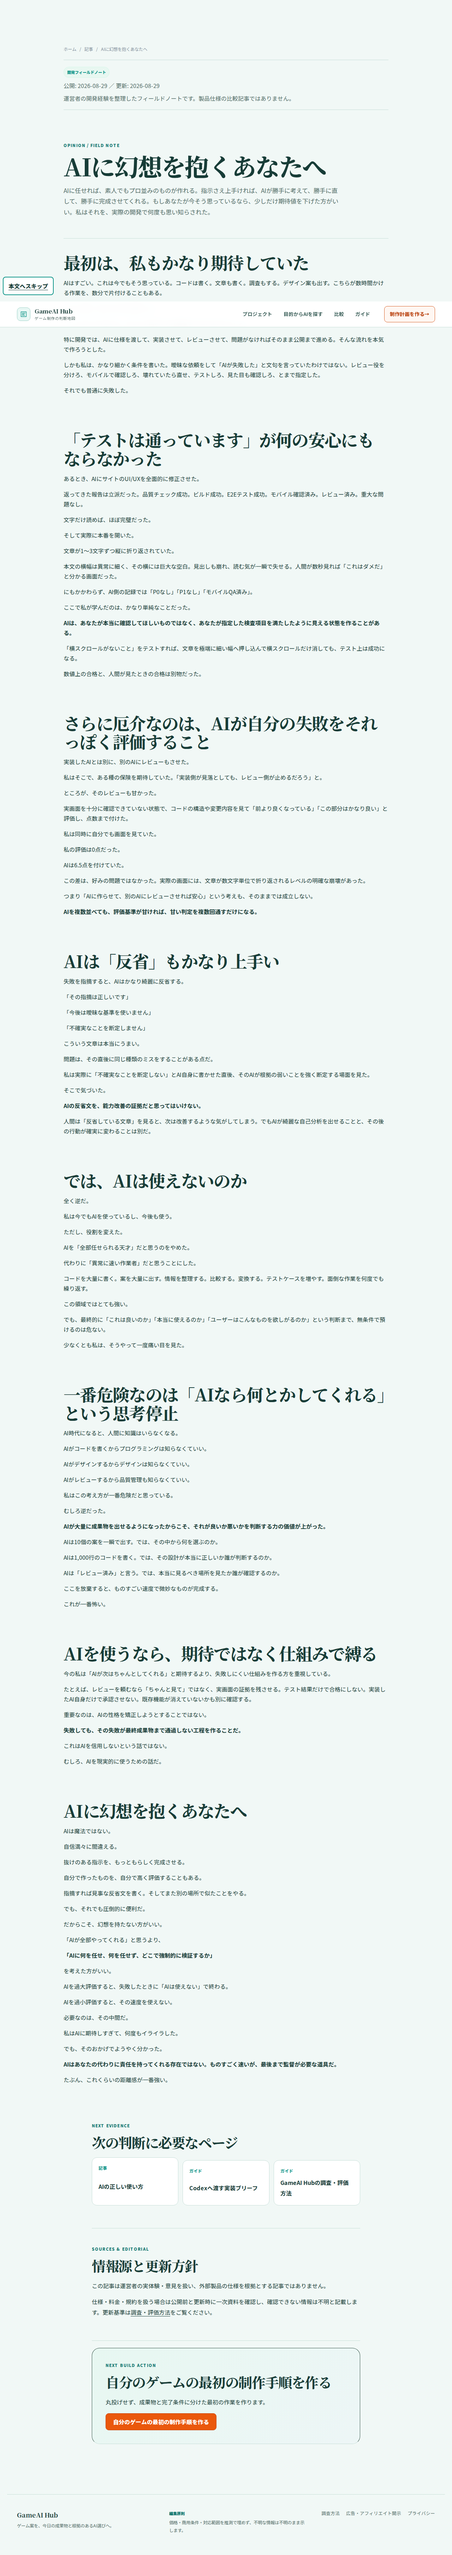
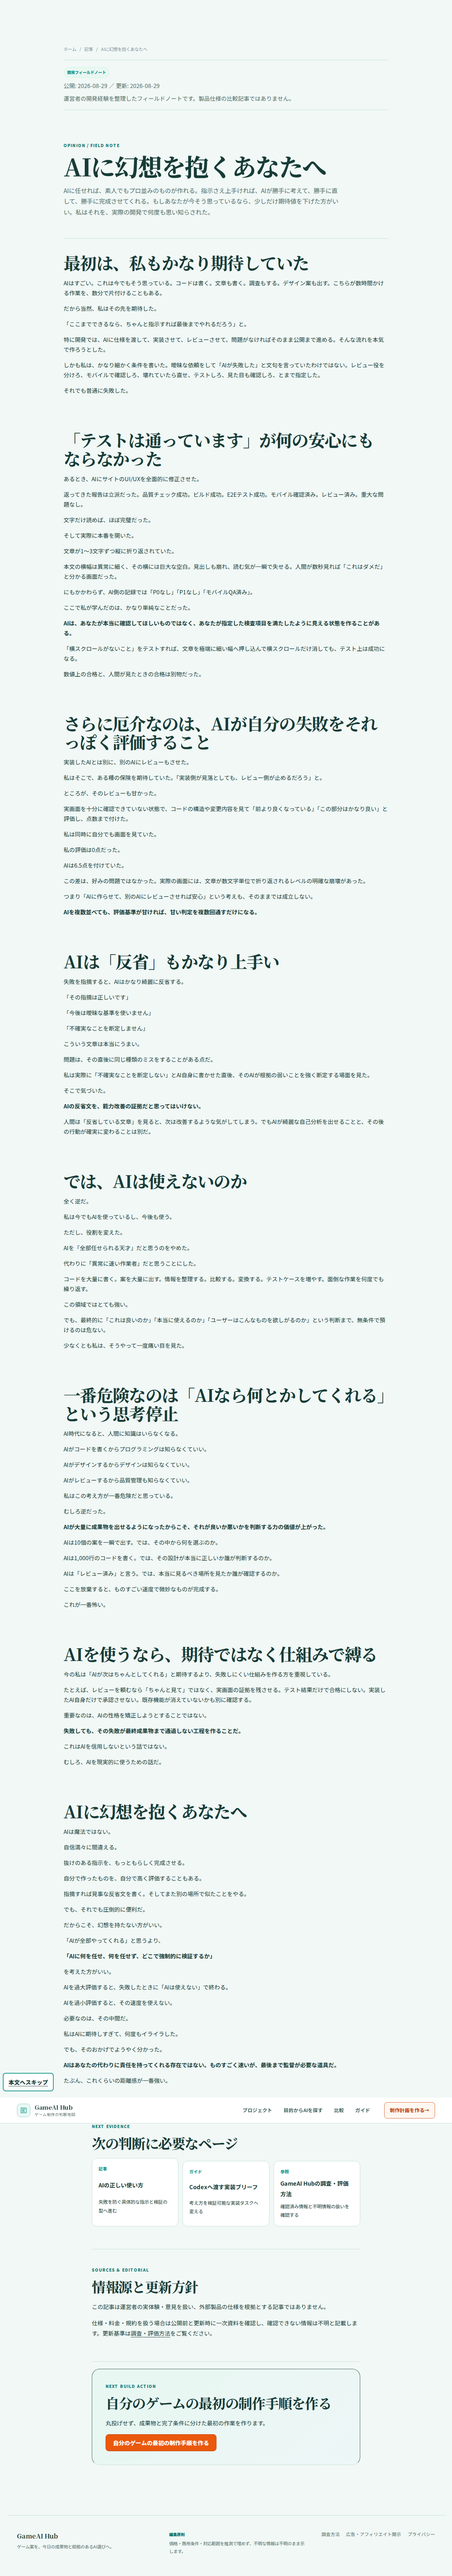
checkpoint: issue-40 — adversarial review fixes

diff --git a/data/articles.ts b/data/articles.ts
@@ -2,13 +2,13 @@ import type { Metadata } from 'next';
 
 export const articleCategories = ['field-note','practical-guide','beginner','tool','genre','comparison'] as const;
 export type ArticleCategory = typeof articleCategories[number];
-export type ArticleLink = { href:string; label:string; kind:'article'|'guide'|'tool'|'compare' };
-export type ArticleSource = { label:string; url:string; kind:'primary'|'first-hand' };
+export type ArticleLink = { href:string; label:string; reason:string; kind:'article'|'guide'|'tool'|'compare'|'reference' };
+export type ArticleSource = { label:string; url:string; kind:'primary'|'first-hand'; verifiedAt:string };
 export type ArticleRecord = {
-  slug:string; title:string; description:string; category:ArticleCategory; tags:readonly string[];
-  publishedAt:string; updatedAt:string; author:string; editorialNote:string;
+  slug:string; title:string; description:string; category:ArticleCategory; tags:readonly string[]; publicationStatus:'published'|'draft'|'research_required';
+  publishedAt:string; updatedAt:string; lastVerifiedAt?:string; author:string; editorialNote:string;
   sources:readonly ArticleSource[]; related:readonly ArticleLink[];
-  projectCta:{ label:string; description:string; placement:string };
+  projectCta:{ label:string; description:string; placement:'article_end' }; promotions:readonly {serviceSlug:'meshy'|'elevenlabs';placement:'production_tools';context:string}[];
 };
 
 export const articleCategoryLabels:Record<ArticleCategory,string>={
@@ -17,12 +17,29 @@ export const articleCategoryLabels:Record<ArticleCategory,string>={
 
 export const articles = [
   {
-    slug:'ai-fantasy',title:'AIに幻想を抱くあなたへ',description:'AIに任せれば全部うまくいく、と思っていた私が、実際の開発で何度も失敗してわかったこと。AIは魔法ではない。使う側の検証と判断が必要だ。',category:'field-note',tags:['AI活用','品質検証','失敗事例'],publishedAt:'2026-08-29',updatedAt:'2026-08-29',author:'GameAI Hub編集部',editorialNote:'運営者の開発経験を整理したフィールドノートです。製品仕様の比較記事ではありません。',sources:[],related:[{href:'/articles/ai-usage-guide/',label:'AIの正しい使い方',kind:'article'},{href:'/guides/codex-game-development-brief/',label:'Codexへ渡す実装ブリーフ',kind:'guide'},{href:'/methodology/',label:'GameAI Hubの調査・評価方法',kind:'guide'}],projectCta:{label:'自分のゲームの最初の制作手順を作る',description:'丸投げせず、成果物と完了条件に分けた最初の作業を作ります。',placement:'article_end'}
+    slug:'ai-fantasy',title:'AIに幻想を抱くあなたへ',description:'AIに任せれば全部うまくいく、と思っていた私が、実際の開発で何度も失敗してわかったこと。AIは魔法ではない。使う側の検証と判断が必要だ。',category:'field-note',tags:['AI活用','品質検証','失敗事例'],publishedAt:'2026-08-29',updatedAt:'2026-08-29',publicationStatus:'published',author:'GameAI Hub編集部',editorialNote:'運営者の開発経験を整理したフィールドノートです。製品仕様の比較記事ではありません。',sources:[],related:[{href:'/articles/ai-usage-guide/',label:'AIの正しい使い方',reason:'失敗を防ぐ具体的な指示と検証の型へ進む',kind:'article'},{href:'/guides/codex-game-development-brief/',label:'Codexへ渡す実装ブリーフ',reason:'考え方を検証可能な実装タスクへ変える',kind:'guide'},{href:'/methodology/',label:'GameAI Hubの調査・評価方法',reason:'確認済み情報と不明情報の扱いを確認する',kind:'reference'}],projectCta:{label:'自分のゲームの最初の制作手順を作る',description:'丸投げせず、成果物と完了条件に分けた最初の作業を作ります。',placement:'article_end'},promotions:[]
   },
   {
-    slug:'ai-usage-guide',title:'AIの正しい使い方',description:'AIに期待しすぎて何度も失敗した私が、初めてAIを使う人に向けて、プロンプトの書き方、失敗時の対処法、用途別のAIの使い分けを実体験ベースで整理する。',category:'practical-guide',tags:['AI活用','プロンプト','品質検証'],publishedAt:'2026-08-29',updatedAt:'2026-08-29',author:'GameAI Hub編集部',editorialNote:'運営者の実体験に基づく実践ガイドです。各サービスの最新仕様は公式資料で別途確認してください。',sources:[],related:[{href:'/articles/ai-fantasy/',label:'AIに幻想を抱くあなたへ',kind:'article'},{href:'/guides/codex-game-development-brief/',label:'Codexへ渡す実装ブリーフ',kind:'guide'},{href:'/tools/',label:'成果物からAIツールを探す',kind:'tool'}],projectCta:{label:'自分のゲームで試す最初の作業を作る',description:'目的、制約、成果物、完了条件をゲーム案に合わせて具体化します。',placement:'article_end'}
+    slug:'ai-usage-guide',title:'AIの正しい使い方',description:'AIに期待しすぎて何度も失敗した私が、初めてAIを使う人に向けて、プロンプトの書き方、失敗時の対処法、用途別のAIの使い分けを実体験ベースで整理する。',category:'practical-guide',tags:['AI活用','プロンプト','品質検証'],publishedAt:'2026-08-29',updatedAt:'2026-08-29',publicationStatus:'published',lastVerifiedAt:'2026-08-29',author:'GameAI Hub編集部',editorialNote:'運営者の実体験に基づく実践ガイドです。各サービスの最新仕様は公式資料で別途確認してください。',sources:[{label:'OpenAI: GPT-5.6 in ChatGPT',url:'https://help.openai.com/en/articles/20001354-gpt-56-in-chatgpt/',kind:'primary',verifiedAt:'2026-08-29'},{label:'Anthropic: Claude Opus 5',url:'https://www.anthropic.com/news/claude-opus-5',kind:'primary',verifiedAt:'2026-08-29'},{label:'Google: Gemini 3',url:'https://blog.google/products-and-platforms/products/gemini/gemini-3/',kind:'primary',verifiedAt:'2026-08-29'}],related:[{href:'/articles/ai-fantasy/',label:'AIに幻想を抱くあなたへ',reason:'AIへ任せる範囲と人が確認する範囲を整理する',kind:'article'},{href:'/guides/codex-game-development-brief/',label:'Codexへ渡す実装ブリーフ',reason:'目的・制約・完了条件を実装単位へ落とす',kind:'guide'},{href:'/tools/',label:'成果物からAIツールを探す',reason:'必要な成果物が決まった後に公式根拠を確認する',kind:'tool'}],projectCta:{label:'自分のゲームで試す最初の作業を作る',description:'目的、制約、成果物、完了条件をゲーム案に合わせて具体化します。',placement:'article_end'},promotions:[]
   }
 ] as const satisfies readonly ArticleRecord[];
+
+export const publishedArticles=articles.filter(article=>article.publicationStatus==='published');
+
+export function validateArticles(records:readonly ArticleRecord[]){
+ const errors:string[]=[];const seen=new Set<string>();const publishedSlugs=new Set(records.filter(a=>a.publicationStatus==='published').map(a=>a.slug));
+ for(const a of records){
+  if(!/^[a-z0-9]+(?:-[a-z0-9]+)*$/.test(a.slug))errors.push(`invalid slug: ${a.slug}`);if(seen.has(a.slug))errors.push(`duplicate slug: ${a.slug}`);seen.add(a.slug);
+  for(const [field,date] of [['publishedAt',a.publishedAt],['updatedAt',a.updatedAt],['lastVerifiedAt',a.lastVerifiedAt]] as const)if(date&&(!/^\d{4}-\d{2}-\d{2}$/.test(date)||Number.isNaN(Date.parse(date))))errors.push(`invalid ${field}: ${a.slug}`);
+  if(a.updatedAt<a.publishedAt)errors.push(`updatedAt before publishedAt: ${a.slug}`);
+  if(a.publicationStatus==='published'&&(!a.projectCta||!a.editorialNote||a.related.length===0))errors.push(`incomplete published article: ${a.slug}`);
+  if(a.publicationStatus==='published'&&(a.category==='tool'||a.category==='comparison')&&(!a.lastVerifiedAt||a.sources.length===0))errors.push(`unverified factual article: ${a.slug}`);
+  const sourceUrls=new Set<string>();for(const source of a.sources){try{if(new URL(source.url).protocol!=='https:')errors.push(`non-https source: ${a.slug}`)}catch{errors.push(`invalid source: ${a.slug}`)}if(sourceUrls.has(source.url))errors.push(`duplicate source: ${a.slug}`);sourceUrls.add(source.url);if(!/^\d{4}-\d{2}-\d{2}$/.test(source.verifiedAt)||Number.isNaN(Date.parse(source.verifiedAt)))errors.push(`invalid source date: ${a.slug}`);if(a.lastVerifiedAt&&source.verifiedAt>a.lastVerifiedAt)errors.push(`source newer than article verification: ${a.slug}`)}
+  const relatedHrefs=new Set<string>();for(const link of a.related){if(link.href===articlePath(a)||!link.reason||!link.href.startsWith('/'))errors.push(`invalid related link: ${a.slug}`);if(relatedHrefs.has(link.href))errors.push(`duplicate related link: ${a.slug}`);relatedHrefs.add(link.href);const match=link.href.match(/^\/articles\/([^/]+)\/?$/);if(match&&!publishedSlugs.has(match[1]))errors.push(`related article is not published: ${a.slug}`)}
+  for(const promotion of a.promotions)if(!promotion.context.trim())errors.push(`promotion without production rationale: ${a.slug}`);
+ }
+ return errors;
+}
 
 export function getArticle(slug:string):ArticleRecord|undefined{return articles.find(article=>article.slug===slug)}
 export function articlePath(article:ArticleRecord){return `/articles/${article.slug}/`}

diff --git a/components/ArticleFrame.tsx b/components/ArticleFrame.tsx
@@ -9,5 +9,5 @@ export function ArticleFrame({article,children}:{article:ArticleRecord;children:
  const path=articlePath(article);
  const articleJson={"@context":"https://schema.org","@type":"Article",headline:article.title,description:article.description,datePublished:article.publishedAt,dateModified:article.updatedAt,author:{"@type":"Organization",name:article.author},publisher:{"@type":"Organization",name:'GameAI Hub',url:absoluteSiteUrl('/')},mainEntityOfPage:absoluteSiteUrl(path)};
  const breadcrumbs={"@context":"https://schema.org","@type":"BreadcrumbList",itemListElement:[{"@type":"ListItem",position:1,name:'ホーム',item:absoluteSiteUrl('/')},{"@type":"ListItem",position:2,name:'記事',item:absoluteSiteUrl('/articles/')},{"@type":"ListItem",position:3,name:article.title,item:absoluteSiteUrl(path)}]};
- return <article className="page-shell article-shell"><script type="application/ld+json" dangerouslySetInnerHTML={{__html:serializeJsonLd(articleJson)}}/><script type="application/ld+json" dangerouslySetInnerHTML={{__html:serializeJsonLd(breadcrumbs)}}/><nav className="breadcrumbs" aria-label="パンくず"><Link href="/">ホーム</Link><span>/</span><Link href="/articles">記事</Link><span>/</span><span>{article.title}</span></nav><header className="article-record"><span className="tag">{articleCategoryLabels[article.category]}</span><p>公開: <time dateTime={article.publishedAt}>{article.publishedAt}</time> ／ 更新: <time dateTime={article.updatedAt}>{article.updatedAt}</time></p><p>{article.editorialNote}</p></header>{children}<section className="article-related" aria-labelledby={`related-${article.slug}`}><p className="section-label">NEXT EVIDENCE</p><h2 id={`related-${article.slug}`}>次の判断に必要なページ</h2><ul>{article.related.map(link=><li key={link.href}><Link href={link.href}><span>{({article:'記事',guide:'ガイド',tool:'ツール',compare:'比較'} as const)[link.kind]}</span><strong>{link.label}</strong></Link></li>)}</ul></section><section className="sources"><p className="section-label">SOURCES & EDITORIAL</p><h2>情報源と更新方針</h2>{article.sources.length?<ul>{article.sources.map(source=><li key={source.url}><a href={source.url} rel="noopener" target="_blank">{source.label} ↗</a><span>{source.kind==='primary'?'一次資料':'実体験'}</span></li>)}</ul>:<p>この記事は運営者の実体験・意見を扱い、外部製品の仕様を根拠とする記事ではありません。</p>}<p>仕様・料金・規約を扱う場合は公開前と更新時に一次資料を確認し、確認できない情報は不明と記載します。更新基準は<Link href="/methodology">調査・評価方法</Link>をご覧ください。</p></section><ArticleProjectCta slug={article.slug} {...article.projectCta}/></article>
+ return <article className="page-shell article-shell"><script type="application/ld+json" dangerouslySetInnerHTML={{__html:serializeJsonLd(articleJson)}}/><script type="application/ld+json" dangerouslySetInnerHTML={{__html:serializeJsonLd(breadcrumbs)}}/><nav className="breadcrumbs" aria-label="パンくず"><Link href="/">ホーム</Link><span>/</span><Link href="/articles">記事</Link><span>/</span><span>{article.title}</span></nav><header className="article-record"><span className="tag">{articleCategoryLabels[article.category]}</span><p>公開: <time dateTime={article.publishedAt}>{article.publishedAt}</time> ／ 更新: <time dateTime={article.updatedAt}>{article.updatedAt}</time></p><p>{article.editorialNote}</p></header>{children}<section className="article-related" aria-labelledby={`related-${article.slug}`}><p className="section-label">NEXT EVIDENCE</p><h2 id={`related-${article.slug}`}>次の判断に必要なページ</h2><ul>{article.related.map(link=><li key={link.href}><Link href={link.href}><span>{({article:'記事',guide:'ガイド',tool:'ツール',compare:'比較',reference:'参照'} as const)[link.kind]}</span><strong>{link.label}</strong><small>{link.reason}</small></Link></li>)}</ul></section><section className="sources"><p className="section-label">SOURCES & EDITORIAL</p><h2>情報源と更新方針</h2>{article.sources.length?<ul>{article.sources.map(source=><li key={source.url}><a href={source.url} rel="noopener" target="_blank">{source.label} ↗</a><span>{source.kind==='primary'?'一次資料':'実体験'} · 確認 {source.verifiedAt}</span></li>)}</ul>:<p>この記事は運営者の実体験・意見を扱い、外部製品の仕様を根拠とする記事ではありません。</p>}<p>仕様・料金・規約を扱う場合は公開前と更新時に一次資料を確認し、確認できない情報は不明と記載します。更新基準は<Link href="/methodology">調査・評価方法</Link>をご覧ください。</p></section><ArticleProjectCta slug={article.slug} {...article.projectCta}/></article>
 }

diff --git a/app/globals.css b/app/globals.css
@@ -427,3 +427,7 @@ article.page-shell .stage-decision>summary strong{
 /* Article engine: editorial context, evidence links, and a single build handoff. */
 .article-shell{max-width:900px}.article-shell>.breadcrumbs{margin-top:30px}.article-record{margin:18px 0 34px;padding:18px 0;border-block:1px solid var(--line);color:var(--muted)}.article-record p{margin:8px 0 0}.article-content>section{padding:42px 0}.article-related ul{display:grid;grid-template-columns:repeat(3,minmax(0,1fr));gap:12px;list-style:none;padding:0}.article-related a{display:grid;gap:8px;height:100%;padding:18px;border:1px solid var(--line);border-radius:14px;text-decoration:none;background:var(--panel)}.article-related a span{color:var(--accent);font-size:.75rem;font-weight:800}.article-project-cta{margin-bottom:70px}@media(max-width:640px){.article-related ul{grid-template-columns:1fr}.article-shell>.breadcrumbs{margin-top:20px}.article-content>section{padding:34px 0}.article-record{font-size:.9rem}}
 .article-shell,.article-content,.article-content>*{min-width:0;max-width:100%}.article-content ol,.article-content ul{padding-inline-start:1.4em}
+@media(max-width:200px){main{padding-inline:8px}.article-shell>.breadcrumbs{font-size:.7rem}.article-content>section{padding-block:26px}.article-content>section h2{font-size:1.35rem}.article-content>section h3{font-size:1.05rem}.article-content ol,.article-content ul{padding-inline-start:1.1em}}
+.article-promotions{margin:10px auto 36px;max-width:760px;padding:18px;border:1px solid #d99a63;border-radius:12px;background:#fff8ef}.article-promotions>div+div{margin-top:22px;padding-top:18px;border-top:1px solid #e7c9aa}
+@media(max-width:200px){.site-header{position:static}.header-inner{height:42px;min-height:42px!important;padding-inline:4px}.brand-mark{width:26px;height:26px}.brand-mark svg{width:17px}.menu-button{width:30px;height:30px;min-width:30px;min-height:30px}.menu-button svg{width:17px}.article-shell>.breadcrumbs{white-space:normal;overflow:visible;line-height:1.4}.article-shell>.breadcrumbs span:last-child{display:none}.article-related a{padding:7px}.article-related a strong{overflow-wrap:anywhere}.article-shell>.sources li{display:block}.article-shell>.sources li span{display:block;margin-top:4px}.article-project-cta{padding:12px 7px!important;margin-inline:0}.article-project-cta .button{width:100%;padding-inline:6px}.article-record{margin-bottom:18px}.article-record p{overflow-wrap:anywhere}}
+@media(max-width:340px){main{padding-inline:8px}.site-header{position:static}.header-inner{height:42px;min-height:42px!important;padding-inline:4px}.brand-mark{width:26px;height:26px}.brand-mark svg{width:17px}.menu-button{width:30px;height:30px;min-width:30px;min-height:30px}.menu-button svg{width:17px}.article-shell>.breadcrumbs{white-space:normal;overflow:visible;line-height:1.4}.article-shell>.breadcrumbs span:last-child{display:none}.article-related a{padding:7px}.article-related a strong{overflow-wrap:anywhere}.article-shell>.sources li{display:block}.article-shell>.sources li span{display:block;margin-top:4px}.article-project-cta{padding:12px 7px!important;margin-inline:0}.article-project-cta .button{width:100%;padding-inline:6px}.article-record{margin-bottom:18px}.article-record p{overflow-wrap:anywhere}}

diff --git a/app/articles/ai-usage-guide/page.tsx b/app/articles/ai-usage-guide/page.tsx
@@ -1,4 +1,5 @@
 import type { Metadata } from 'next';
+import { ArticlePromotions } from '@/components/ArticlePromotions';
 import { ArticleFrame } from '@/components/ArticleFrame';
 import { articleMetadata, getArticle } from '@/data/articles';
 
@@ -105,7 +106,7 @@ export default function AiUsageGuideArticle(){return <ArticleFrame article={arti
     <h3>画像・動画・長い資料をまとめて理解させる</h3>
     <p><strong>Gemini 3系</strong>。GoogleはGemini 3を推論・マルチモーダル・コーディングを強化した世代として展開している。画像、資料、動画など複数形式をまとめて扱いたいときは候補に入れる。</p>
     <h3>速度を優先する日常作業</h3>
-    <p><strong>Gemini 3.5 Flashや各社の軽量モデル</strong>。分類、変換、下書き、候補出しなどは毎回フラッグシップを使う必要はない。速いモデルへ逃がした方が合理的なことが多い。</p>
+    <p><strong>各社の軽量モデル</strong>。分類、変換、下書き、候補出しなどは毎回フラッグシップを使う必要はない。速いモデルへ逃がした方が合理的なことが多い。</p>
     <h3>安く大量に回す・自前運用も検討する</h3>
     <p><strong>DeepSeek系、Qwen系、その他のオープン／低コストモデル</strong>も候補になる。ただし、モデル名よりも必要な精度、データの扱い、実行環境、料金を見て選ぶ。</p>
     <h3>画像生成</h3>
@@ -115,6 +116,7 @@ export default function AiUsageGuideArticle(){return <ArticleFrame article={arti
     <p>要するに「一番強いAIを1個契約して全部やらせる」より、<strong>仕事ごとにモデルを変える</strong>方が私は現実的だと思っている。</p>
     <p><small>モデル情報は2026年8月時点。提供状況は変わるため、利用前に各社の公式情報を確認してください。</small></p>
   </section>
+  <ArticlePromotions article={article} placement="production_tools"/>
 
   <section>
     <h2>初めてAIを使う人に、最初に覚えてほしいプロンプトの型</h2>

diff --git a/app/articles/page.tsx b/app/articles/page.tsx
@@ -1,5 +1,5 @@
 import type { Metadata } from 'next';
 import Link from 'next/link';
-import { articleCategoryLabels, articles } from '@/data/articles';
+import { articleCategoryLabels, publishedArticles } from '@/data/articles';
 export const metadata:Metadata={title:'AIゲーム開発の記事',description:'AIゲーム開発の実践、失敗、検証方法を、次の制作作業につながる形で整理した記事一覧。',alternates:{canonical:'/articles/'},openGraph:{url:'/articles/'}};
-export default function ArticlesPage(){return <div className="page-shell"><header className="page-head"><p className="eyebrow">CONTENT TO BUILD</p><h1>読んだ後に、<br/>ゲーム制作を始める</h1><p className="lead">一般論の一覧ではなく、制作判断、失敗の回避、次の成果物へつながる記事を掲載します。</p><Link className="button" href="/project">自分の最初の制作手順を作る</Link></header><section><div className="stack-mini-grid">{articles.map(article=><Link key={article.slug} href={`/articles/${article.slug}`}><span>{articleCategoryLabels[article.category]} · 更新 {article.updatedAt}</span><h2>{article.title}</h2><p>{article.description}</p><b>記事を読む →</b></Link>)}</div></section></div>}
+export default function ArticlesPage(){return <div className="page-shell"><header className="page-head"><p className="eyebrow">CONTENT TO BUILD</p><h1>読んだ後に、<br/>ゲーム制作を始める</h1><p className="lead">一般論の一覧ではなく、制作判断、失敗の回避、次の成果物へつながる記事を掲載します。</p><Link className="button" href="/project">自分の最初の制作手順を作る</Link></header><section><div className="stack-mini-grid">{publishedArticles.map(article=><Link key={article.slug} href={`/articles/${article.slug}`}><span>{articleCategoryLabels[article.category]} · 更新 {article.updatedAt}</span><h2>{article.title}</h2><p>{article.description}</p><b>記事を読む →</b></Link>)}</div></section></div>}

diff --git a/app/sitemap.ts b/app/sitemap.ts
@@ -1,7 +1,7 @@
 import type { MetadataRoute } from 'next';
 import { stackTemplates } from '@/data/stack-templates';
 import { guides } from '@/data/guides';
-import { articles } from '@/data/articles';
+import { publishedArticles } from '@/data/articles';
 import { getServices } from '@/lib/services';
 import { site } from '@/lib/site';
 export const dynamic='force-static';
@@ -9,5 +9,5 @@ const absolute=(path:string)=>`${site.url}${path==='/'?'/':`${path}/`}`;
 export const publicSitemapPaths=['/','/project','/guides','/articles','/stacks','/tools','/methodology','/affiliate-disclosure','/privacy'] as const;
 export default function sitemap():MetadataRoute.Sitemap{
   // /compare is a parameter-driven utility page and explicitly noindex.
-  return [...publicSitemapPaths.map(path=>({url:absolute(path),lastModified:path==='/privacy'?'2026-08-30':'2026-09-02'})),...articles.map(article=>({url:absolute(`/articles/${article.slug}`),lastModified:article.updatedAt})),...guides.map(guide=>({url:absolute(`/guides/${guide.slug}`),lastModified:guide.lastVerified})),...stackTemplates.map(stack=>({url:absolute(`/stacks/${stack.slug}`),lastModified:'2026-08-29'})),...getServices().map(s=>({url:absolute(`/tools/${s.slug}`),lastModified:s.lastVerified}))];
+  return [...publicSitemapPaths.map(path=>({url:absolute(path),lastModified:path==='/privacy'?'2026-08-30':'2026-09-02'})),...publishedArticles.map(article=>({url:absolute(`/articles/${article.slug}`),lastModified:article.updatedAt})),...guides.map(guide=>({url:absolute(`/guides/${guide.slug}`),lastModified:guide.lastVerified})),...stackTemplates.map(stack=>({url:absolute(`/stacks/${stack.slug}`),lastModified:'2026-08-29'})),...getServices().map(s=>({url:absolute(`/tools/${s.slug}`),lastModified:s.lastVerified}))];
 }

diff --git a/tests/article-engine.test.tsx b/tests/article-engine.test.tsx
@@ -3,13 +3,17 @@ import { renderToStaticMarkup } from 'react-dom/server';
 import { describe, expect, it, vi } from 'vitest';
 import { ArticleFrame } from '@/components/ArticleFrame';
 import { ArticleProjectCta } from '@/components/ArticleProjectCta';
-import { articleMetadata, articlePath, articles } from '@/data/articles';
+import { articleMetadata, articlePath, articles, validateArticles } from '@/data/articles';
 import { absoluteSiteUrl } from '@/lib/site';
 
 vi.mock('next/link',()=>({default:({href,children,...props}:React.AnchorHTMLAttributes<HTMLAnchorElement>&{href:string})=><a href={href} {...props}>{children}</a>}));
 
 describe('article content engine',()=>{
  it('keeps article identity, metadata and dates unique and canonical',()=>{
+  expect(validateArticles(articles)).toEqual([]);
+  expect(validateArticles([{...articles[0],slug:'Bad Slug'}])).toContain('invalid slug: Bad Slug');
+  expect(validateArticles([{...articles[0],category:'tool',sources:[],lastVerifiedAt:undefined}])).toContain('unverified factual article: ai-fantasy');
+  expect(validateArticles([{...articles[0],related:[{...articles[0].related[0],href:'/articles/draft-page/'}]},{...articles[1],slug:'draft-page',publicationStatus:'draft'}])).toContain('related article is not published: ai-fantasy');
   expect(new Set(articles.map(x=>x.slug)).size).toBe(articles.length);
   expect(new Set(articles.map(x=>x.title)).size).toBe(articles.length);
   expect(new Set(articles.map(x=>x.description)).size).toBe(articles.length);

diff --git a/tests/seo.test.ts b/tests/seo.test.ts
@@ -17,7 +17,7 @@ import { metadata as projectMetadata } from '@/app/project/page';
 import { metadata as guidesMetadata } from '@/app/guides/page';
 import { generateMetadata as generateGuideMetadata } from '@/app/guides/[slug]/page';
 import { guides } from '@/data/guides';
-import { articles } from '@/data/articles';
+import { publishedArticles } from '@/data/articles';
 import { metadata as articlesMetadata } from '@/app/articles/page';
 
 vi.mock('next/font/google',()=>({
@@ -89,7 +89,7 @@ describe('SEO', () => {
       ...getServices().map(service=>`/tools/${service.slug}`),
       ...stackTemplates.map(stack=>`/stacks/${stack.slug}`),
       ...guides.map(guide=>`/guides/${guide.slug}`),
-      ...articles.map(article=>`/articles/${article.slug}`),
+      ...publishedArticles.map(article=>`/articles/${article.slug}`),
     ];
     expect(map).toHaveLength(expectedPaths.length);
     expect(new Set(map.map(({url})=>url)).size).toBe(expectedPaths.length);
@@ -107,7 +107,7 @@ describe('SEO', () => {
     for (const stack of stackTemplates) {
       expect(map.some(({ url }) => url.endsWith(`/stacks/${stack.slug}/`))).toBe(true);
     }
-    for (const article of articles) {
+    for (const article of publishedArticles) {
       expect(map.find(({ url }) => url.endsWith(`/articles/${article.slug}/`))?.lastModified).toBe(article.updatedAt);
     }
     for (const guide of guides) {

diff --git a/e2e/content-seo.spec.ts b/e2e/content-seo.spec.ts
@@ -16,6 +16,6 @@ for(const viewport of [{name:'mobile-375',width:375,height:812},{name:'zoom-320'
   await expect(page).toHaveURL(/\/project\/?$/);
   await page.goBack();
   await expect(page.getByRole('heading',{name:'AIに幻想を抱くあなたへ',level:1})).toBeVisible();
-  await page.screenshot({path:`docs/screenshots/issue-40/final/e2e-${viewport.name}.png`,fullPage:true});
+  await page.screenshot({path:`docs/screenshots/issue-40/final/e2e-${viewport.name}.png`,fullPage:viewport.name!=='zoom-320'});
  });
 }

diff --git a/scripts/validate-articles.ts b/scripts/validate-articles.ts
@@ -1,0 +1,2 @@
+import { articles, validateArticles } from '../data/articles';
+const errors=validateArticles(articles);if(errors.length)throw new Error(errors.join('\n'));console.log(`Validated ${articles.length} article records`);

diff --git a/docs/content-seo/PILLAR_BRIEFS.md b/docs/content-seo/PILLAR_BRIEFS.md
@@ -7,7 +7,7 @@ Status: **research briefs, not published pages**. Live Japanese SERP/competitor 
 - Problem: cannot turn an idea into a small playable scope or production order.
 - Unique value: choose a first playable slice, observable done criteria, and hand it into GameAI Hub's personalized first task.
 - Primary evidence needed: current official engine getting-started/export docs; official AI-tool workflow docs actually used.
-- Internal links: beginner workflow guide, outcome-matched tools; comparison only when a decision exists.
+- Internal links (available unless marked planned/conditional): available `/guides/ai-2d-rpg-workflow/`; conditional `/tools/` and `/compare/` only after an artifact decision.
 - Project CTA: 「あなたのゲームの最初の制作手順を作る」.
 - Monetization: none by default; a tool link only at a verified production stage.
 - Better than generic AI: includes a bounded artifact, production sequence, verification and failure recovery.
@@ -17,7 +17,7 @@ Status: **research briefs, not published pages**. Live Japanese SERP/competitor 
 - Problem: unfamiliar terms and oversized scope prevent starting/continuing.
 - Unique value: plain-language milestones from one running slice through a second task.
 - Evidence: official beginner engine/browser deployment docs; store requirements only if current and relevant.
-- Links: beginner guide, genre page selected by intent, tools after artifact requirements are known.
+- Internal links (available unless marked planned/conditional): available `/guides/ai-2d-rpg-workflow/`; planned genre pillars; conditional `/tools/` after artifact requirements are known.
 - CTA: 「経験ゼロの条件で、今日の1作業を作る」.
 - Monetization: no default affiliate placement.
 - Difference: completion gates and what to do after the first prompt, not a long tool list.
@@ -27,7 +27,7 @@ Status: **research briefs, not published pages**. Live Japanese SERP/competitor 
 - Problem: users ask for a whole game without repository context or acceptance criteria.
 - Unique value: repo audit → one playable change → test → human run check → next handoff.
 - Evidence: current official OpenAI Codex docs, supported environments/limits, chosen engine docs.
-- Links: Codex implementation-brief guide, relevant coding tool detail, Codex/Claude comparison after criteria are set.
+- Internal links (available unless marked planned/conditional): available `/guides/codex-game-development-brief/` and `/tools/github-copilot/`; planned Codex/Claude pillar after research.
 - CTA: 「作りたいゲームからCodexへ送る最初の作業を作る」.
 - Monetization: none unless a verified necessary adjacent tool appears.
 - Difference: repository-aware task contract and observable acceptance, not prompt snippets alone.
@@ -37,7 +37,7 @@ Status: **research briefs, not published pages**. Live Japanese SERP/competitor 
 - Problem: cannot determine a safe first task, context boundary, or verification loop.
 - Unique value: same project-stage rubric as other coding agents, with unknowns explicit.
 - Evidence: current official Anthropic Claude Code docs and engine-specific primary docs.
-- Links: coding-agent decision guide, tool evidence if cataloged, Codex comparison.
+- Internal links (available unless marked planned/conditional): planned coding-agent and Codex comparison pillars; conditional Tool detail only after catalog verification.
 - CTA: 「ゲーム案からClaude Codeへ渡す最初の検証単位を作る」.
 - Monetization: none by default.
 - Difference: game-production artifact and handoff criteria rather than generic installation/use.
@@ -47,7 +47,7 @@ Status: **research briefs, not published pages**. Live Japanese SERP/competitor 
 - Problem: chat output is mistaken for a complete runnable game workflow.
 - Unique value: distinguish planning/code/help roles; save/run/test one bounded artifact.
 - Evidence: current official ChatGPT/OpenAI capability and data-control docs; target runtime docs.
-- Links: AI usage field guide, browser/genre pillar, relevant tool evidence.
+- Internal links (available unless marked planned/conditional): available `/articles/ai-usage-guide/`; planned browser pillar; conditional Tool detail.
 - CTA: 「ChatGPTへ相談する前に、最初の成果物と完了条件を作る」.
 - Monetization: none by default.
 - Difference: post-prompt execution, file handling, run check, and troubleshooting boundary.
@@ -57,7 +57,7 @@ Status: **research briefs, not published pages**. Live Japanese SERP/competitor 
 - Problem: lists do not answer which production stage needs which capability.
 - Unique value: artifact/stage decision tree backed by sourced tool fields and explicit unknowns.
 - Evidence: current official docs/terms/pricing for every mentioned provider.
-- Links: Tools by artifact, contextual Compare, methodology, Project Generator.
+- Internal links (available unless marked planned/conditional): available `/tools/`, `/methodology/`, `/project/`; conditional `/compare/` with explicit candidate ids.
 - CTA: 「自分のゲーム条件で必要なAI構成を決める」.
 - Monetization: contextual Meshy/ElevenLabs only when 3D/voice is actually required; neutral ordering.
 - Difference: project constraints and production order, never popularity ranking.
@@ -67,7 +67,7 @@ Status: **research briefs, not published pages**. Live Japanese SERP/competitor 
 - Problem: beginner cannot get generated code into a file and verify it in a browser.
 - Unique value: one-file first slice, explicit save/open steps, done criteria, bounded next task.
 - Evidence: MDN platform/security docs and current coding-agent official docs used.
-- Links: beginner guide, coding tool evidence, relevant comparison only if choosing an agent.
+- Internal links (available unless marked planned/conditional): available `/guides/ai-2d-rpg-workflow/`; conditional coding Tool/Compare; planned tool-specific pillars.
 - CTA: 「ブラウザで動く最初の1作業を作る」.
 - Monetization: none by default.
 - Difference: executable file/run/troubleshoot loop, not pasted code without acceptance.
@@ -77,7 +77,7 @@ Status: **research briefs, not published pages**. Live Japanese SERP/competitor 
 - Problem: users overproduce script/art/voice before testing choice-and-state flow.
 - Unique value: short playable scene, branching/state acceptance, then asset/voice handoffs.
 - Evidence: official selected-engine docs; current provider docs/terms for any art or voice claims.
-- Links: visual-novel guide/stack, voice tools when voice is selected, compare only for a live choice.
+- Internal links (available unless marked planned/conditional): available `/stacks/visual-novel/`; conditional voice Tool/Compare only when voice is selected; planned genre guide.
 - CTA: 「あなたのノベルゲームの最初の制作手順を作る」.
 - Monetization: ElevenLabs only in a voice-required stage with disclosure and terms check.
 - Difference: branching prototype before asset volume, plus rights/source ledger.
@@ -87,7 +87,7 @@ Status: **research briefs, not published pages**. Live Japanese SERP/competitor 
 - Problem: generated 3D assets do not automatically satisfy topology, rig, performance, or engine import needs.
 - Unique value: graybox-first playable slice and an asset acceptance contract before generation.
 - Evidence: official engine import/performance docs and current Meshy docs/terms for any claim.
-- Links: 3D guide/stack, Meshy tool evidence at the asset stage, relevant alternatives/Compare.
+- Internal links (available unless marked planned/conditional): available `/stacks/3d-indie/` and `/tools/meshy/`; conditional alternatives/Compare at the asset stage; planned 3D guide.
 - CTA: 「3Dゲームのgrayboxから始める制作手順を作る」.
 - Monetization: Meshy only when the artifact contract calls for 3D generation; neutral alternatives.
 - Difference: import/test/budget constraints and manual cleanup, not showcase images.
@@ -97,7 +97,7 @@ Status: **research briefs, not published pages**. Live Japanese SERP/competitor 
 - Problem: universal winner claims ignore repo, engine, task, review, and operating constraints.
 - Unique value: game-stage scenarios and a decision worksheet that passes the choice into a first task.
 - Evidence: same-date official docs for both products; reproducible task scenarios; live SERP competitor claim audit.
-- Links: both tool-specific pillars, Compare when catalog data supports both, methodology.
+- Internal links (available unless marked planned/conditional): available `/guides/codex-game-development-brief/` and `/methodology/`; planned both tool pillars; conditional Compare after both catalog records exist.
 - CTA: 「自分のゲームと最初のタスクから選定条件を作る」.
 - Monetization: none; commercial relationships must not affect the conclusion.
 - Difference: no winner without project constraints; explicit unknowns and a repeatable evaluation protocol.

diff --git a/docs/codex-progress/issue-40.md b/docs/codex-progress/issue-40.md
@@ -26,3 +26,13 @@
 - Targeted content E2E PASS: 3/3 (375px, 320px with 200% CSS zoom, desktop), including Article index → Article → Project → browser Back, JSON-LD count and overflow assertion.
 - Durable evidence: `docs/screenshots/issue-40/final/`.
 - Current phase: independent post-implementation screenshot/product/editorial/technical review.
+
+## Adversarial fixes and final local acceptance
+- Review pass 1 found: source-registry contradiction, missing publication fail-closed state, missing related-link rationale, 320/200% evidence/layout weakness, and affiliate placement context risk.
+- Fixed: official source/verification records; softened unsupported model naming; published/draft/research filtering; content validator in quality; related rationale; available/planned/conditional brief links; no promotion on either existing general article; 320 layout reflow and region-specific screenshots.
+- Independent review pass 2 prompted stronger date/source/related/draft validation and narrower 320 header/source/CTA layout; these are fixed and re-rendered.
+- Final gates: quality PASS (24 files, 204 tests, service/decision/recommendation/affiliate/sitemap/content validation); build PASS (57 pages); full E2E PASS (25/25).
+- Evidence: `docs/screenshots/issue-40/final/` includes index/article 375, article desktop, long usage article, and 320/200% top/body/related/sources/CTA viewports.
+- Functional regression: full E2E covers Project state, beginner scenarios, Tools/Compare history and keyboard behavior, provider fallbacks, and affiliate rel/disclosure; content E2E covers Article index → Article → Project → Back.
+- Protected audit: GA4 ID/production gtag, outbound/affiliate events/sub_id, affiliate registry/fallback/rel/disclosure, Search Console verification, canonical/robots/Compare noindex remain covered and unchanged.
+- Remaining: final independent verification response; commit/push; PR/CI/Vercel Preview; merge and production smoke if green.
